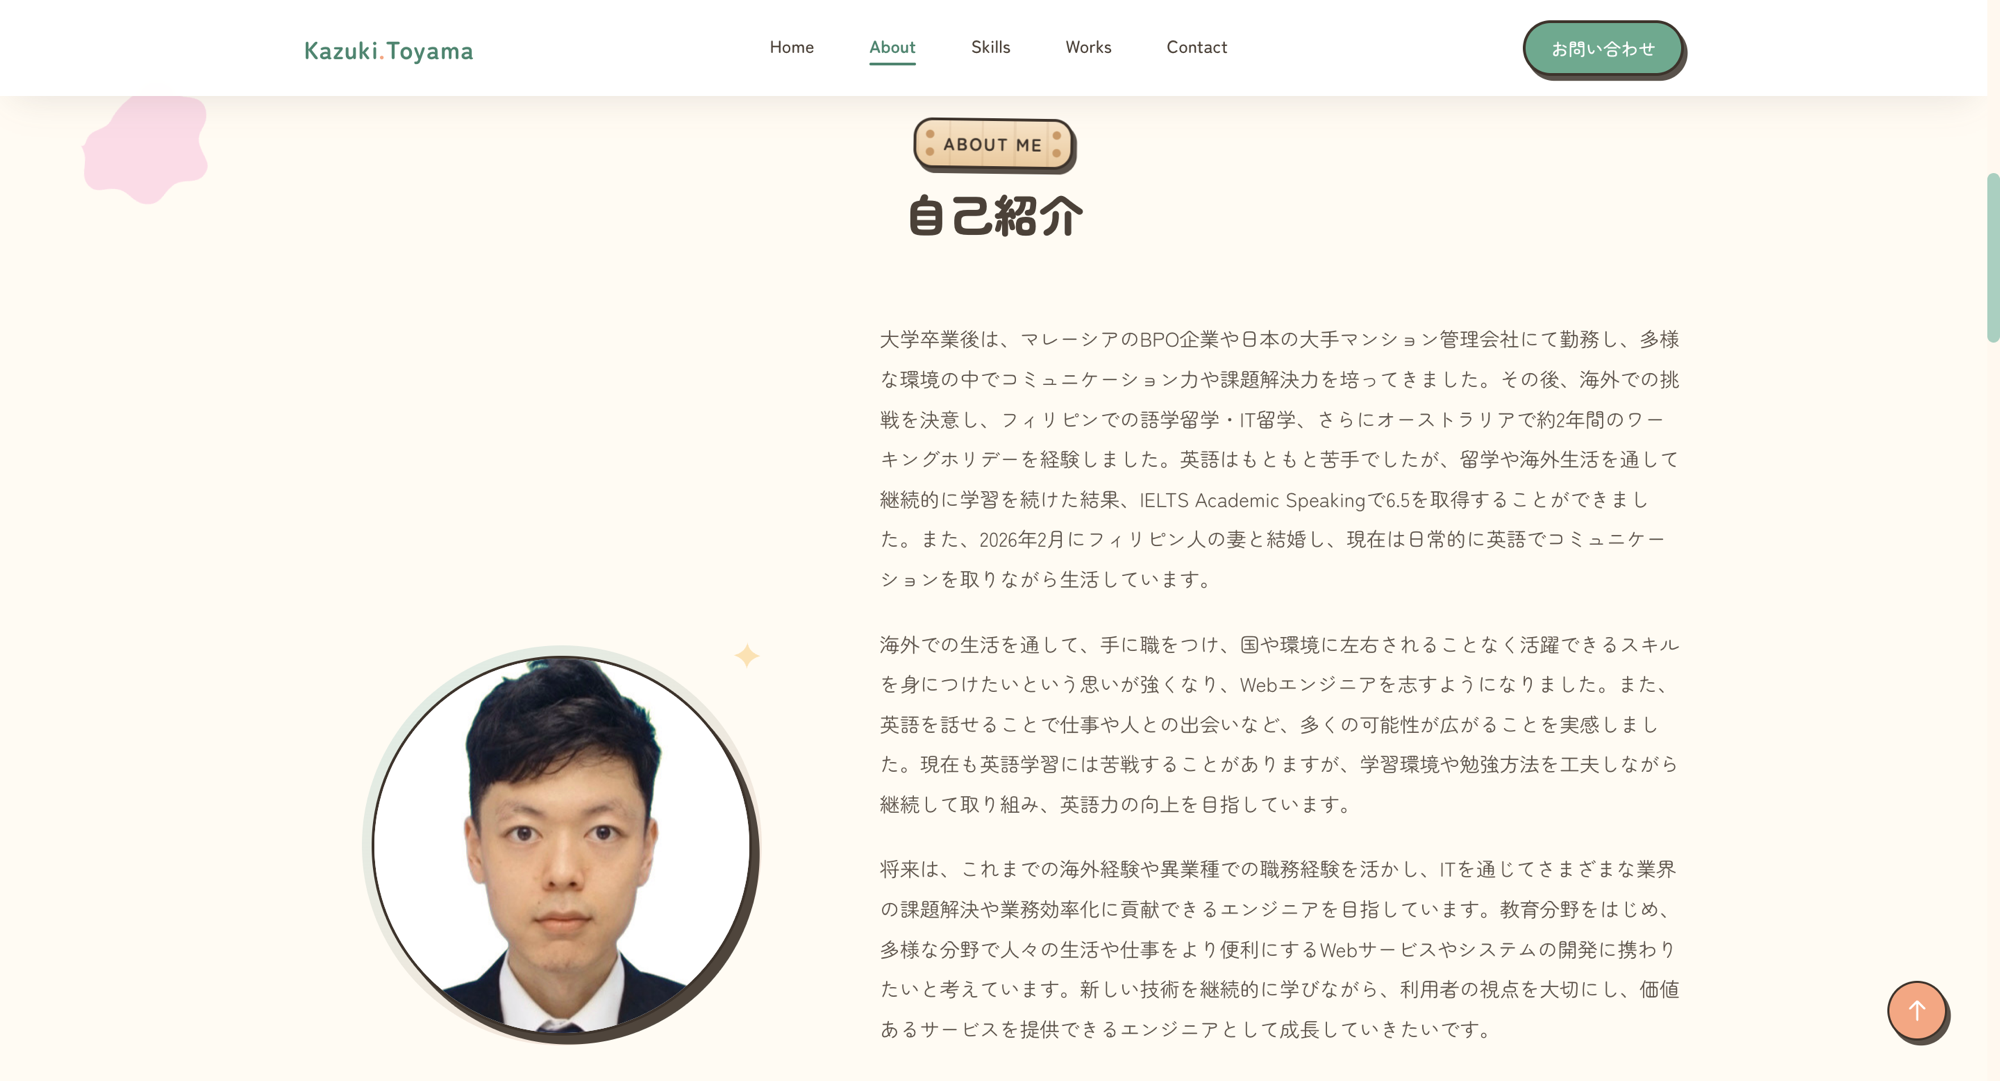
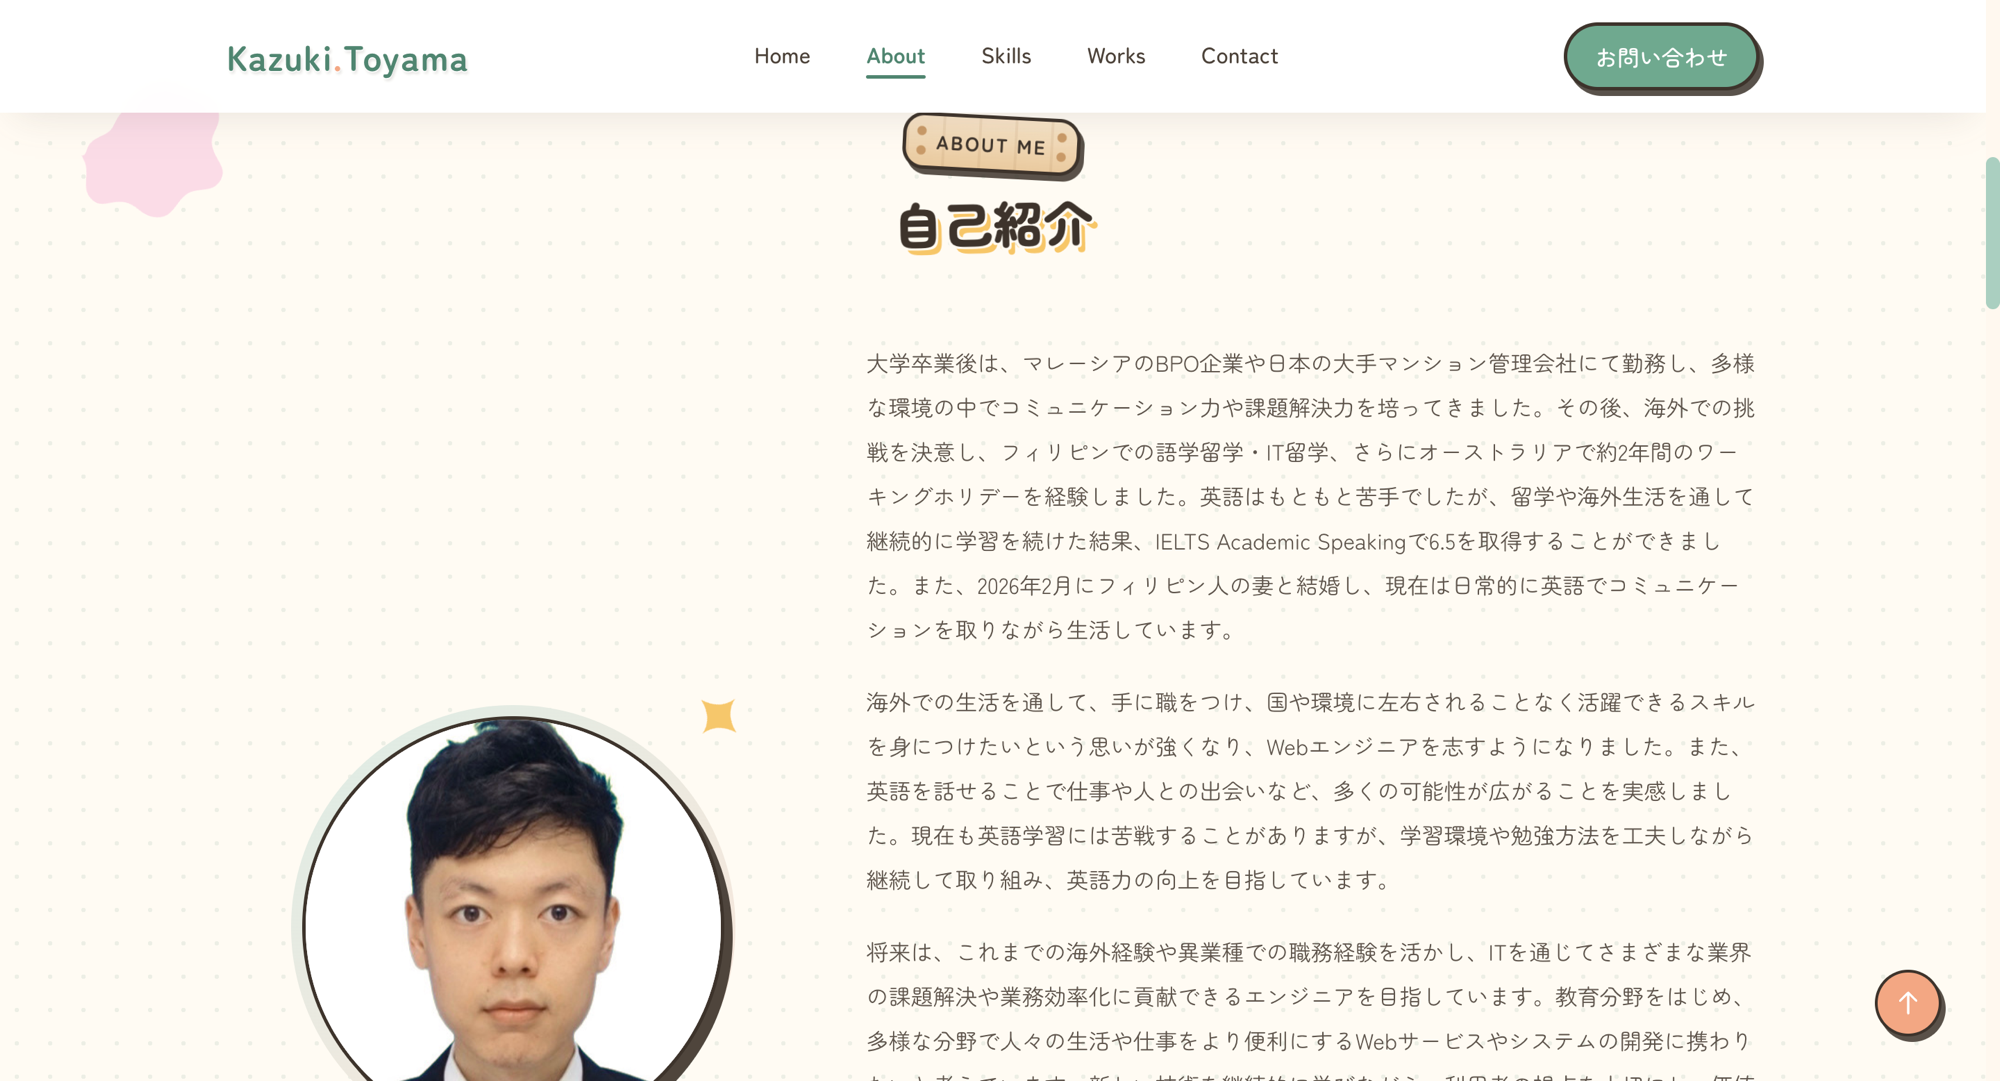
Update MyProfile images

diff --git a/resources/views/welcome.blade.php b/resources/views/welcome.blade.php
@@ -33,9 +33,12 @@
       images: [
         { src: @js(asset('images/works/profile-site/hero.png')), alt: @js('Profile Site のトップページ') },
         { src: @js(asset('images/works/profile-site/about.png')), alt: @js('Profile Site の自己紹介セクション') },
+        { src: @js(asset('images/works/profile-site/about-detail.png')), alt: @js('Profile Site の自己紹介セクション（プロフィール情報）') },
         { src: @js(asset('images/works/profile-site/skills.png')), alt: @js('Profile Site の使用技術セクション') },
+        { src: @js(asset('images/works/profile-site/skills-cards.png')), alt: @js('Profile Site の使用技術カード一覧') },
         { src: @js(asset('images/works/profile-site/works.png')), alt: @js('Profile Site の制作物セクション') },
         { src: @js(asset('images/works/profile-site/contact.png')), alt: @js('Profile Site のお問い合わせセクション') },
+        { src: @js(asset('images/works/profile-site/footer.png')), alt: @js('Profile Site のフッター（森のなかまのおみくじ）') },
       ],
     },
     'learning-english': {
